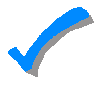
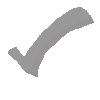
Game Controller Changes
Changed check mark and border colors to better fit with the rest of the game

Changed region(s): [[0.06, 0.06, 0.9, 0.72]]

diff --git a/Assets/AirConsole/Phil/myController.html b/Assets/AirConsole/Phil/myController.html
@@ -8,6 +8,7 @@
         var airconsole;
         var accepted = false;
         var ready = false;
+        var choice;
         function init() {
             airconsole = new AirConsole({ "orientation": "landscape" });
             document.getElementById("ready-controller").style.display = "block";
@@ -29,6 +30,7 @@
                     document.getElementById("fox").style.backgroundImage = "url(\"CardFox.png\")";
                     document.getElementById("chicken").style.backgroundImage = "url(\"CardChicken.png\")";
                     document.getElementById("viper").style.backgroundImage = "url(\"CardViper.png\")";
+                    document.getElementById("check").style.backgroundImage = "url(\"Check2.png\")";
                 }
 
                 else if (data == "Starting") {
@@ -66,38 +68,41 @@
 
         function touch(value) {
             if (!accepted) {
-                airconsole.message(AirConsole.SCREEN, value)
-
                 if (value == 'fox') {
-                    document.getElementById("fox").style.border = "thick solid #0000FF";
+                    document.getElementById("fox").style.border = "thick solid #00FF00";
                     document.getElementById("chicken").style.border = "none";
                     document.getElementById("viper").style.border = "none";
                     document.getElementById("fox").style.backgroundImage = "url(\"CardFoxAnimation.gif\")";
                     document.getElementById("chicken").style.backgroundImage = "url(\"CardChicken.png\")";
                     document.getElementById("viper").style.backgroundImage = "url(\"CardViper.png\")";
+                    choice = 'fox';
                 }
 
                 else if (value == 'chicken') {
-                    document.getElementById("chicken").style.border = "thick solid #0000FF";
+                    document.getElementById("chicken").style.border = "thick solid #00FF00";
                     document.getElementById("fox").style.border = "none";
                     document.getElementById("viper").style.border = "none";
                     document.getElementById("fox").style.backgroundImage = "url(\"CardFox.png\")";
                     document.getElementById("chicken").style.backgroundImage = "url(\"CardChickenAnimation.gif\")";
                     document.getElementById("viper").style.backgroundImage = "url(\"CardViper.png\")";
+                    choice = 'chicken';
                 }
 
                 else if (value == 'viper') {
-                    document.getElementById("viper").style.border = "thick solid #0000FF";
+                    document.getElementById("viper").style.border = "thick solid #00FF00";
                     document.getElementById("fox").style.border = "none";
                     document.getElementById("chicken").style.border = "none";
                     document.getElementById("fox").style.backgroundImage = "url(\"CardFox.png\")";
                     document.getElementById("chicken").style.backgroundImage = "url(\"CardChicken.png\")";
                     document.getElementById("viper").style.backgroundImage = "url(\"CardViperAnimation.gif\")";
+                    choice = 'viper';
                 }
 
             }
             if (value == 'accepted') {
                 accepted = true;
+                document.getElementById("check").style.backgroundImage = "url(\"Check3.png\")";
+                airconsole.message(AirConsole.SCREEN, value)
             }
         }
 
@@ -118,6 +123,7 @@
                 //document.getElementById("ready").style.display = "block";
                 document.getElementById("start").style.backgroundImage = "url(\"ready.png\")";
             }
+
 
             //document.getElementById("ready-controller").style.display = "none";
             //document.getElementById("gameplay-controller").style.display = "block";
@@ -242,7 +248,7 @@
         <div id="fox" class="button button-fox" ontouchstart="touch('fox')"></div>
         <div id="chicken" class="button button-chicken" ontouchstart="touch('chicken')"></div>
         <div id="viper" class="button button-viper" ontouchstart="touch('viper')"></div>
-        <div class="accept-button" ontouchstart="touch('accepted')"></div>
+        <div id="check" class="accept-button" ontouchstart="touch('accepted')"></div>
         <div class="icons"></div>
     </div>
 

diff --git a/Assets/WebGLTemplates/AirConsole/controller.html b/Assets/WebGLTemplates/AirConsole/controller.html
@@ -8,6 +8,7 @@
         var airconsole;
         var accepted = false;
         var ready = false;
+        var choice;
         function init() {
             airconsole = new AirConsole({ "orientation": "landscape" });
             document.getElementById("ready-controller").style.display = "block";
@@ -29,6 +30,7 @@
                     document.getElementById("fox").style.backgroundImage = "url(\"CardFox.png\")";
                     document.getElementById("chicken").style.backgroundImage = "url(\"CardChicken.png\")";
                     document.getElementById("viper").style.backgroundImage = "url(\"CardViper.png\")";
+                    document.getElementById("check").style.backgroundImage = "url(\"Check2.png\")";
                 }
 
                 else if (data == "Starting") {
@@ -66,38 +68,41 @@
 
         function touch(value) {
             if (!accepted) {
-                airconsole.message(AirConsole.SCREEN, value)
-
                 if (value == 'fox') {
-                    document.getElementById("fox").style.border = "thick solid #0000FF";
+                    document.getElementById("fox").style.border = "thick solid #00FF00";
                     document.getElementById("chicken").style.border = "none";
                     document.getElementById("viper").style.border = "none";
                     document.getElementById("fox").style.backgroundImage = "url(\"CardFoxAnimation.gif\")";
                     document.getElementById("chicken").style.backgroundImage = "url(\"CardChicken.png\")";
                     document.getElementById("viper").style.backgroundImage = "url(\"CardViper.png\")";
+                    choice = 'fox';
                 }
 
                 else if (value == 'chicken') {
-                    document.getElementById("chicken").style.border = "thick solid #0000FF";
+                    document.getElementById("chicken").style.border = "thick solid #00FF00";
                     document.getElementById("fox").style.border = "none";
                     document.getElementById("viper").style.border = "none";
                     document.getElementById("fox").style.backgroundImage = "url(\"CardFox.png\")";
                     document.getElementById("chicken").style.backgroundImage = "url(\"CardChickenAnimation.gif\")";
                     document.getElementById("viper").style.backgroundImage = "url(\"CardViper.png\")";
+                    choice = 'chicken';
                 }
 
                 else if (value == 'viper') {
-                    document.getElementById("viper").style.border = "thick solid #0000FF";
+                    document.getElementById("viper").style.border = "thick solid #00FF00";
                     document.getElementById("fox").style.border = "none";
                     document.getElementById("chicken").style.border = "none";
                     document.getElementById("fox").style.backgroundImage = "url(\"CardFox.png\")";
                     document.getElementById("chicken").style.backgroundImage = "url(\"CardChicken.png\")";
                     document.getElementById("viper").style.backgroundImage = "url(\"CardViperAnimation.gif\")";
+                    choice = 'viper';
                 }
 
             }
             if (value == 'accepted') {
                 accepted = true;
+                document.getElementById("check").style.backgroundImage = "url(\"Check3.png\")";
+                airconsole.message(AirConsole.SCREEN, value)
             }
         }
 
@@ -118,6 +123,7 @@
                 //document.getElementById("ready").style.display = "block";
                 document.getElementById("start").style.backgroundImage = "url(\"ready.png\")";
             }
+
 
             //document.getElementById("ready-controller").style.display = "none";
             //document.getElementById("gameplay-controller").style.display = "block";
@@ -242,7 +248,7 @@
         <div id="fox" class="button button-fox" ontouchstart="touch('fox')"></div>
         <div id="chicken" class="button button-chicken" ontouchstart="touch('chicken')"></div>
         <div id="viper" class="button button-viper" ontouchstart="touch('viper')"></div>
-        <div class="accept-button" ontouchstart="touch('accepted')"></div>
+        <div id="check" class="accept-button" ontouchstart="touch('accepted')"></div>
         <div class="icons"></div>
     </div>
 
